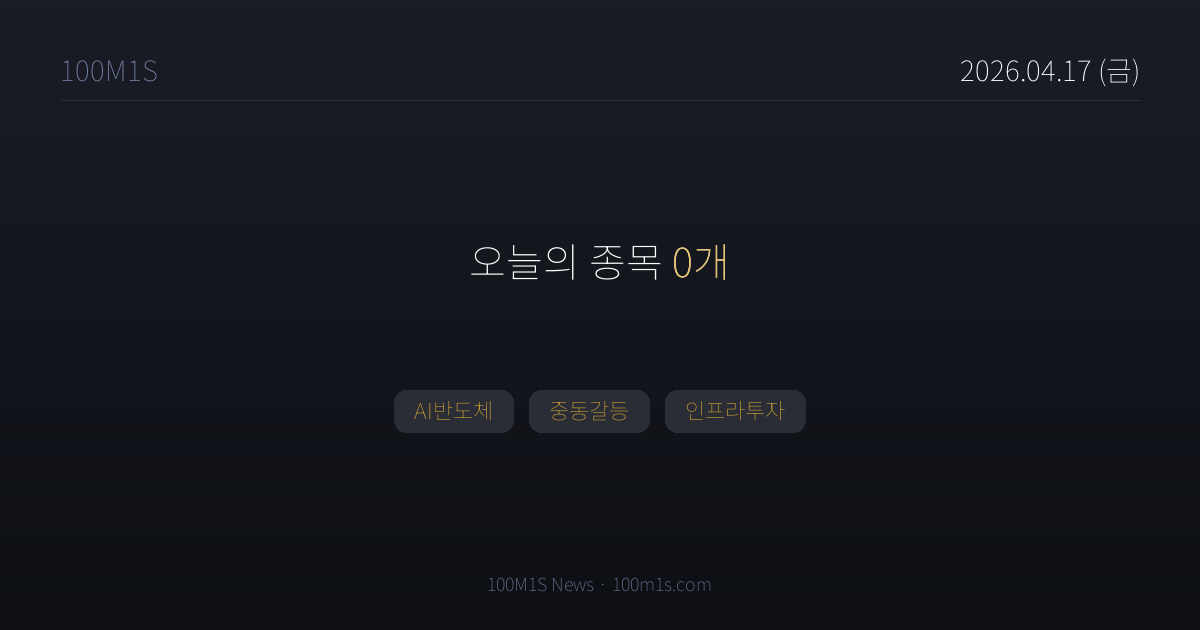
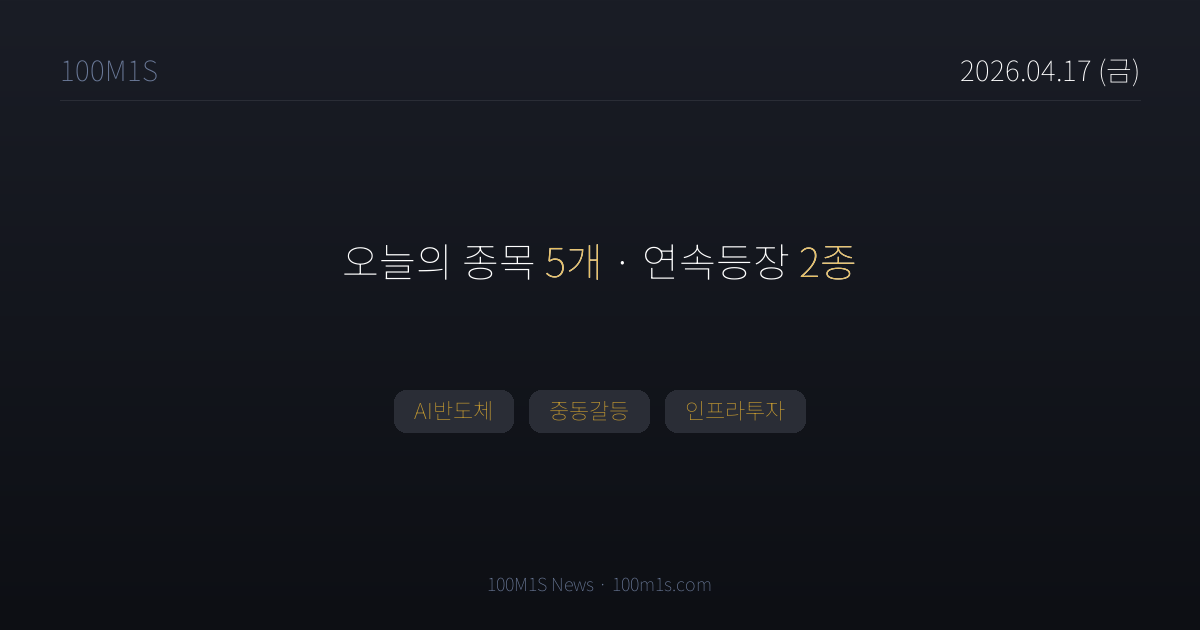
chore(news): 2026-04-17T09:29 pipeline

Changed region(s): [[0.2775, 0.3921, 0.7092, 0.4524]]

diff --git a/news/stock/2026-04-17.html b/news/stock/2026-04-17.html
@@ -3,7 +3,7 @@
 <head>
 <meta charset="UTF-8">
 <title>4월 17일 (금) 뉴스 — 100M1S</title>
-<meta property="og:title" content="4월 17일 (금) · 종목 0개">
+<meta property="og:title" content="4월 17일 (금) · 종목 5개">
 <meta property="og:description" content="AI반도체, 중동갈등, 인프라투자">
 <meta property="og:image" content="https://100m1s.com/og/news/stock/2026-04-17.png">
 <meta property="og:image:width" content="1200">
